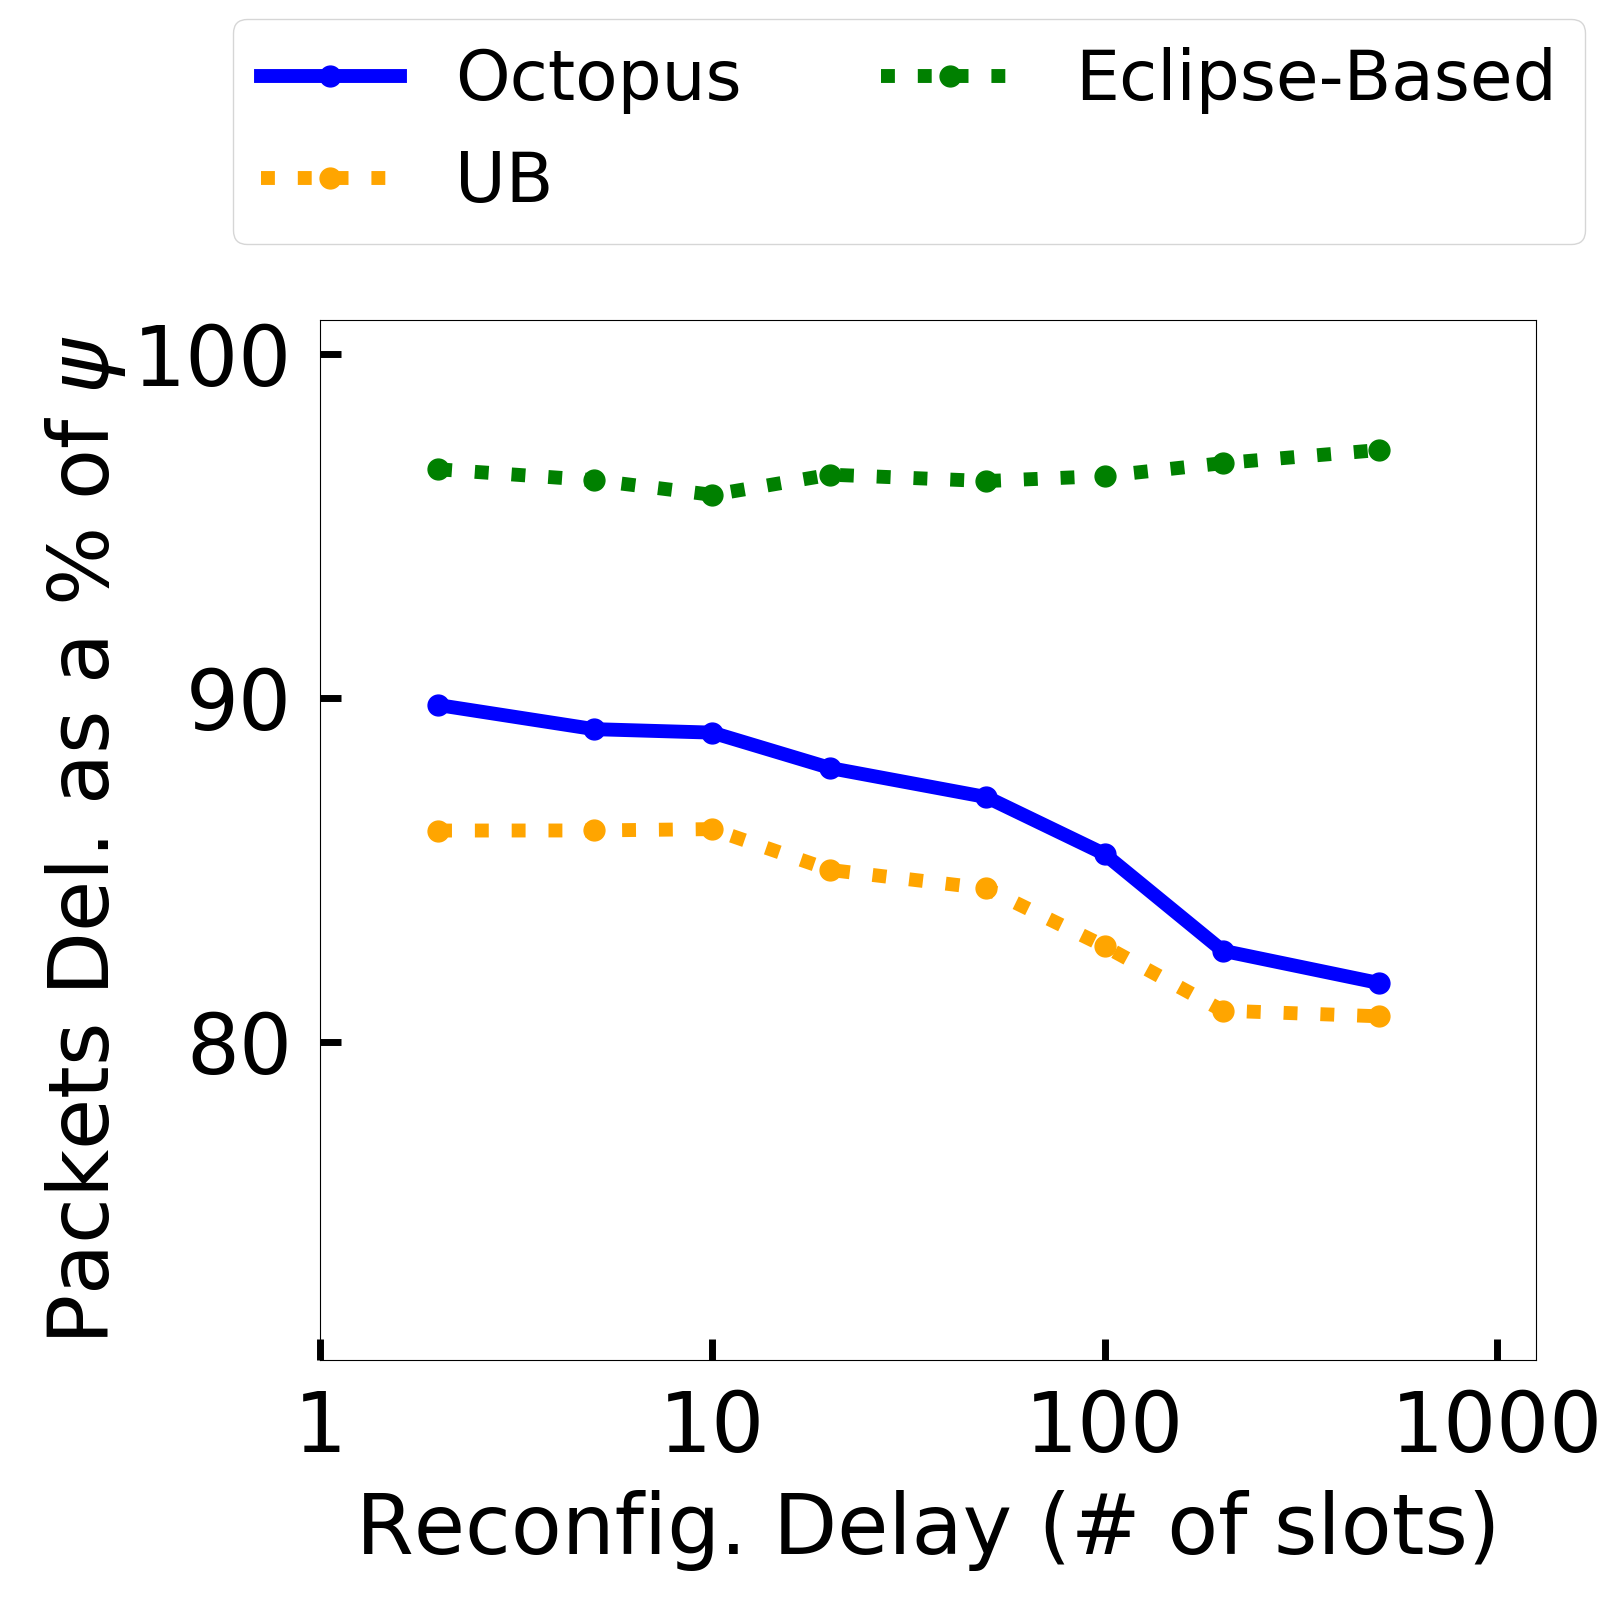
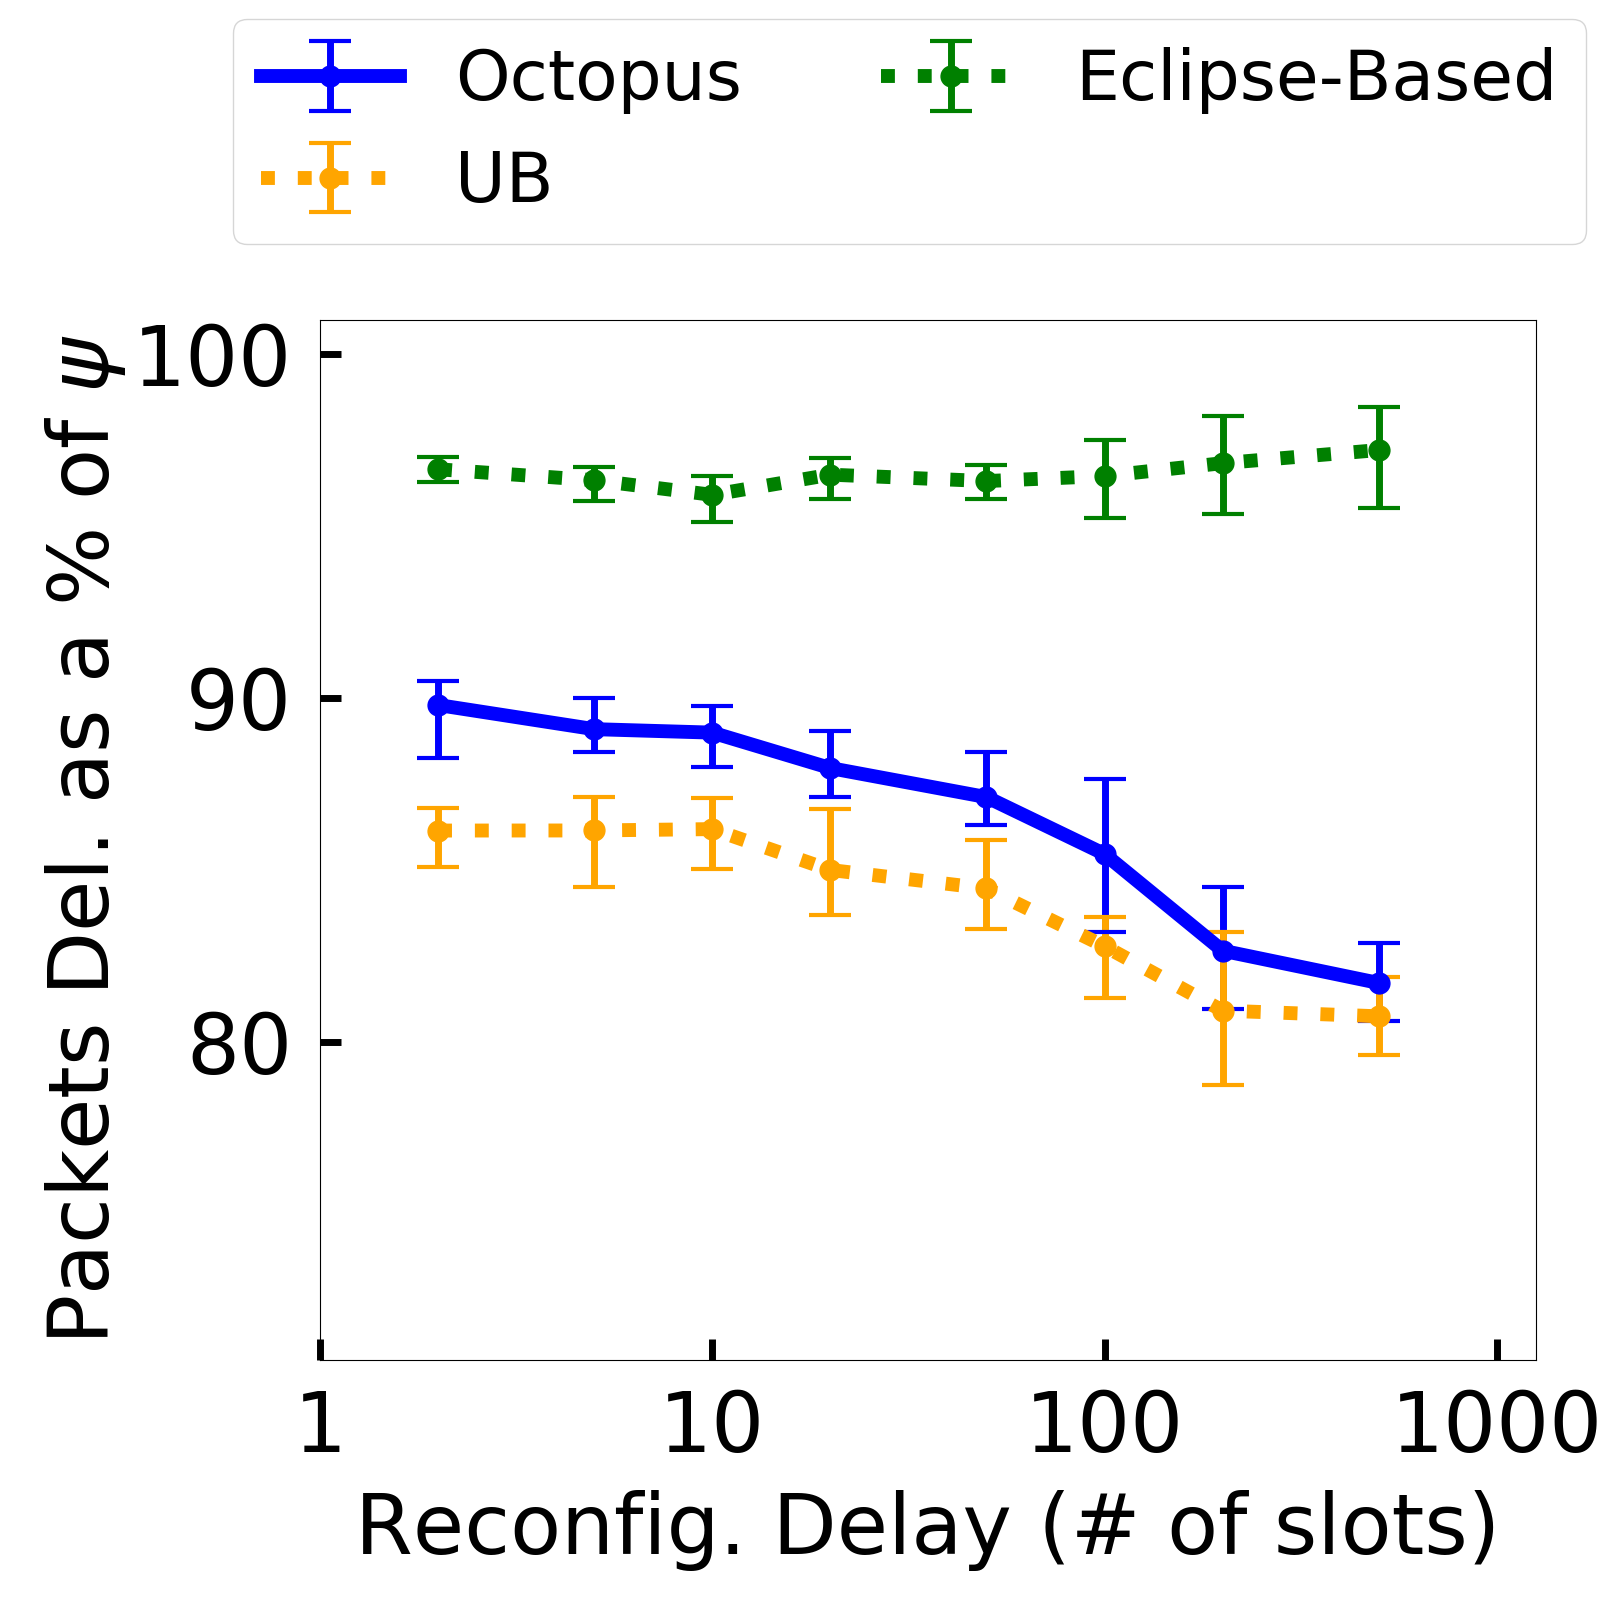
update plots. ranges

diff --git a/plots.py b/plots.py
@@ -217,7 +217,7 @@ def plot1_2(path):
 		for inpt, output_by_method in data:
 			table[(inpt.reconfig_delta)].append({method: getMetric(inpt, output, metric=metric[i]) for method, output in output_by_method.iteritems()})
 		
-		print_table = [[vs] + [reduce_func([(vals_by_method[method] if method in vals_by_method else None) for vals_by_method in list_of_vals_by_method]) for method in methods] for vs, list_of_vals_by_method in sorted(table.iteritems())]
+		print_table = [[vs] + [reduce_func([(vals_by_method[method]  if method in vals_by_method else None) for vals_by_method in list_of_vals_by_method]) for method in methods] for vs, list_of_vals_by_method in sorted(table.iteritems())]
 		yerr_table  = [[vs] + [reduce_func2([(vals_by_method[method] if method in vals_by_method else None) for vals_by_method in list_of_vals_by_method]) for method in methods] for vs, list_of_vals_by_method in sorted(table.iteritems())]
 		print metric[i]
 		print tabulate.tabulate(print_table, headers = ['DELTA'] + methods)
@@ -411,11 +411,13 @@ def plot3(path):
 		for inpt, output_by_method in data:
 			table[(inpt.reconfig_delta)].append({method: getMetric(inpt, output, metric=metric[i]) for method, output in output_by_method.iteritems()})
 		
-		print_table = [[vs] + [reduce_func([(vals_by_method[method] if method in vals_by_method else None) for vals_by_method in list_of_vals_by_method]) for method in methods] for vs, list_of_vals_by_method in sorted(table.iteritems())]
+		print_table = [[vs] + [reduce_func([(vals_by_method[method]  if method in vals_by_method else None) for vals_by_method in list_of_vals_by_method]) for method in methods] for vs, list_of_vals_by_method in sorted(table.iteritems())]
+		yerr_table  = [[vs] + [reduce_func2([(vals_by_method[method] if method in vals_by_method else None) for vals_by_method in list_of_vals_by_method]) for method in methods] for vs, list_of_vals_by_method in sorted(table.iteritems())]
 		print metric[i]
 		print tabulate.tabulate(print_table, headers = ['DELTA'] + methods)
+		print tabulate.tabulate(yerr_table,  headers = ['DELTA'] + methods)
 		print ''
-		plot_line(print_table, methods_, filename='{}/{}-{}'.format(path, metric[i], 'vary_delta'), x_label='Reconfig. Delay (# of slots)', x_log=True, y_label=metric_[i])
+		plot_line(print_table, methods_, filename='{}/{}-{}'.format(path, metric[i], 'vary_delta'), x_label='Reconfig. Delay (# of slots)', x_log=True, y_label=metric_[i], yerr_table=yerr_table)
 
 
 def plot4(path):
@@ -433,10 +435,12 @@ def plot4(path):
 			table[(inpt.reconfig_delta)].append({method: getMetric(inpt, output, metric=metric[i]) for method, output in output_by_method.iteritems()})
 		
 		print_table = [[vs] + [reduce_func([(vals_by_method[method] if method in vals_by_method else None) for vals_by_method in list_of_vals_by_method]) for method in methods] for vs, list_of_vals_by_method in sorted(table.iteritems())]
+		yerr_table  = [[vs] + [reduce_func2([(vals_by_method[method] if method in vals_by_method else None) for vals_by_method in list_of_vals_by_method]) for method in methods] for vs, list_of_vals_by_method in sorted(table.iteritems())]
 		print metric[i]
 		print tabulate.tabulate(print_table, headers = ['DELTA'] + methods)
+		print tabulate.tabulate(yerr_table,  headers = ['DELTA'] + methods)
 		print ''
-		plot_line(print_table, methods_, filename='{}/{}-{}'.format(path, 'octopus', 'vary_delta'), x_label='Reconfig. Delay (# of slots)', x_log=True, y_label=metric_[i])
+		plot_line(print_table, methods_, filename='{}/{}-{}'.format(path, 'octopus', 'vary_delta'), x_label='Reconfig. Delay (# of slots)', x_log=True, y_label=metric_[i], yerr_table=yerr_table)
 
 
 def plot5(path):
@@ -475,10 +479,12 @@ def plot_7(path):
 			table[(inpt.reconfig_delta)].append({method: getMetric(inpt, output, metric=metric) for method, output in output_by_method.iteritems()})
 		
 		print_table = [[vs] + [reduce_func([(vals_by_method[method] if method in vals_by_method else None) for vals_by_method in list_of_vals_by_method]) for method in methods] for vs, list_of_vals_by_method in sorted(table.iteritems())]
+		yerr_table  = [[vs] + [reduce_func2([(vals_by_method[method] if method in vals_by_method else None) for vals_by_method in list_of_vals_by_method]) for method in methods] for vs, list_of_vals_by_method in sorted(table.iteritems())]
 		print metric
 		print tabulate.tabulate(print_table, headers = ['MIN_ROUTE'] + methods)
+		print tabulate.tabulate(yerr_table,  headers = ['MIN_ROUTE'] + methods)
 		print ''
-		plot_line(print_table, methods_, filename='{}/{}-{}'.format(path, 'octopus', 'binary'), x_label='Reconfig. Delay (# of slots)', x_log=True, y_label=metric_, absolute_ub=True)
+		plot_line(print_table, methods_, filename='{}/{}-{}'.format(path, 'octopus', 'binary'), x_label='Reconfig. Delay (# of slots)', x_log=True, y_label=metric_, absolute_ub=True, yerr_table=yerr_table)
 
 
 
@@ -492,14 +498,14 @@ if __name__ == '__main__':
 
 	path = 'data/6-23'
 
-	plot1_1(path)  # num of nodes
+	# plot1_1(path)  # num of nodes
 	# plot1_2(path)  # reconfig delta
 	# plot1_3(path)  # skewness
 	# plot1_4(path)  # sparsity
 	# plot2_1(path)    # real traffic
 	# plot2_2(path)    # real traffic
 	# plot3(path)    # reconfig delta + objective value
-	# plot4(path)    # reconfig delta + octopus+/R
+	plot4(path)    # reconfig delta + octopus+/R
 	# plot5(path)    # average hop count
 	# plot_7(path)     # Octopus-B
 
